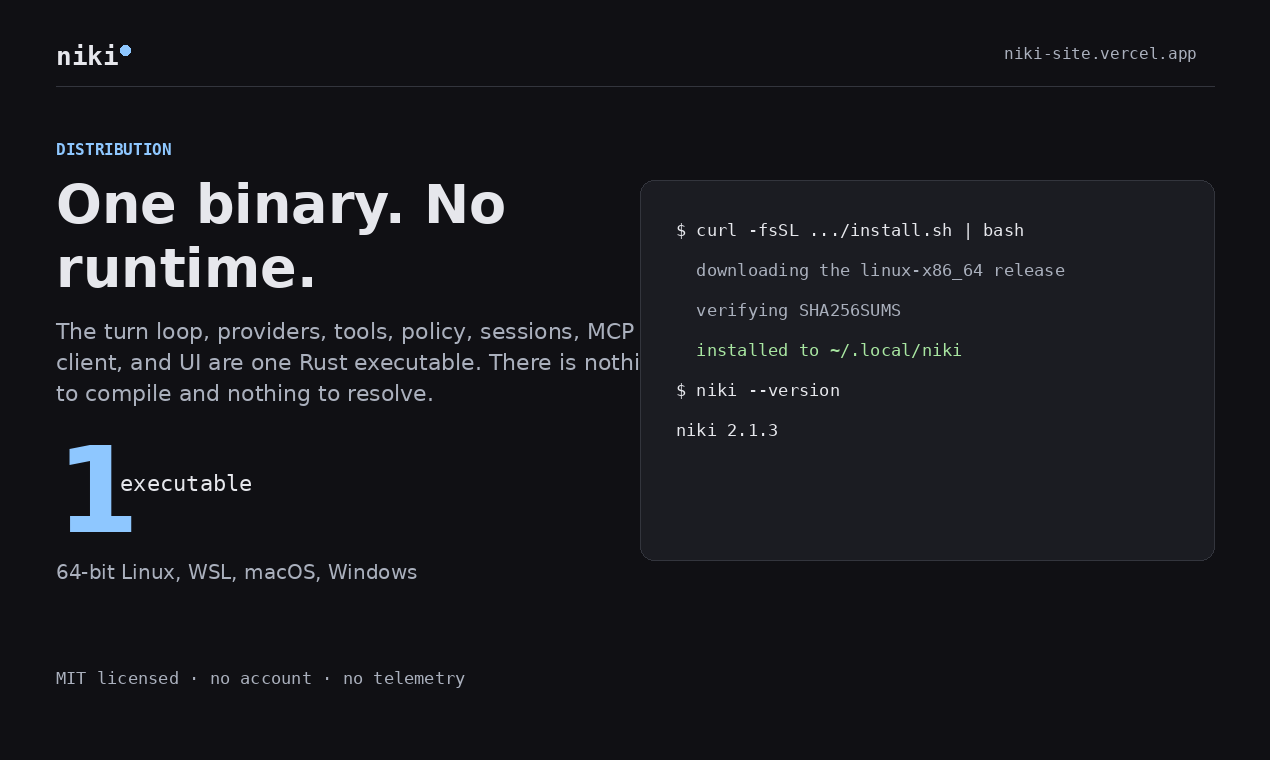
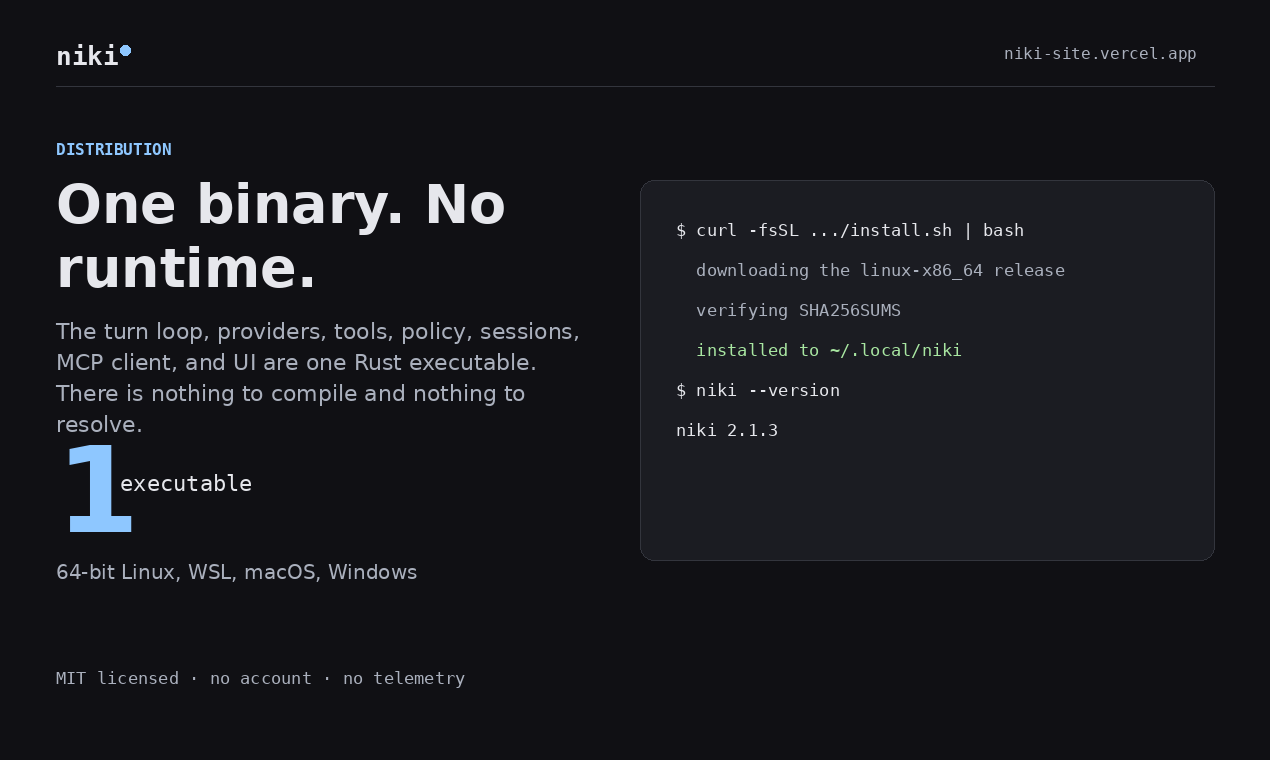
test(ci): count the beta form label as workflow-applied

Changed region(s): [[0.0307, 0.4237, 0.4913, 0.575]]

diff --git a/.github/scripts/tests/labeling/pr-labeler.test.js b/.github/scripts/tests/labeling/pr-labeler.test.js
@@ -56,7 +56,9 @@ test('pr_labeler.yml consumes the shared helper, not an inline alias map', () =>
 // The org labels are applied by pr_labeler.yml directly rather than derived
 // from config (see its `org:external` branch), so they are not reachable from
 // any config map and have to be named here.
-const WORKFLOW_APPLIED_LABELS = ['org:external', 'org:internal', 'priority:triage'];
+const WORKFLOW_APPLIED_LABELS = ['org:external', 'org:internal', 'priority:triage',
+  // Applied by the beta feedback issue form (ISSUE_TEMPLATE/beta-feedback.yml).
+  'type:beta'];
 
 function creatableLabels() {
   const { config, h } = prLabeler.loadAndInit({}, 'o', 'r', core);

diff --git a/launch/render_gallery.py b/launch/render_gallery.py
@@ -137,6 +137,7 @@ def gallery_2():
         "One binary. No runtime.",
         "The turn loop, providers, tools, policy, sessions, MCP client, and UI are one "
         "Rust executable. There is nothing to compile and nothing to resolve.",
+        width=540,
     )
     d.text((56, 420), "1", font=font(SANS_B, 120), fill=ACCENT)
     d.text((120, 470), "executable", font=font(MONO, 22), fill=BODY)
